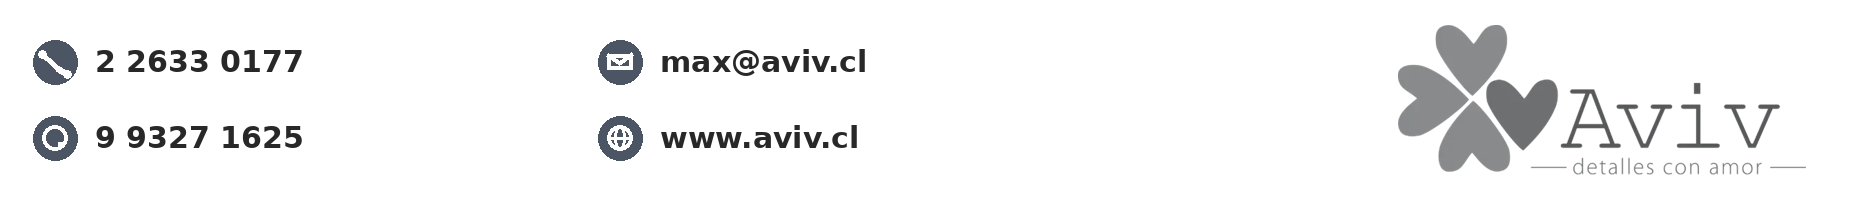
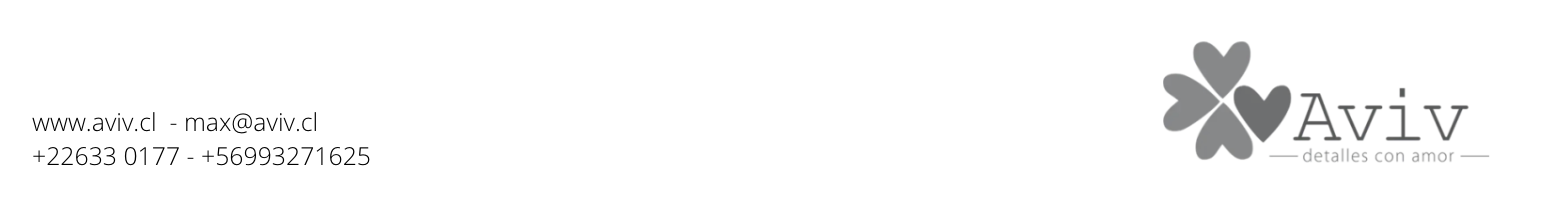
header

diff --git a/generar-catalogos-aviv.js b/generar-catalogos-aviv.js
@@ -1,12 +1,12 @@
 // ══════════════════════════════════════════════════════════════════════════════
-// AVIV — Generador de catálogos PDF → Dropbox
+// AVIV — Generador de catálogos PDF → GitHub Releases
 // A diferencia del script de Temponovo, ACÁ NO SE LISTAN CATÁLOGOS A MANO:
 // se generan automáticamente uno por cada categoría que exista en Odoo
 // (Oro / Anillo, Oro / Aro, Plata / Collar, etc.) — si en Odoo agregan o
 // renombran una categoría, en la próxima corrida aparece/desaparece solo.
 //
-// Uso: DROPBOX_TOKEN=xxx node generar-catalogos-aviv.js
-//      DROPBOX_TOKEN=xxx node generar-catalogos-aviv.js "Anillo"   (filtra por nombre)
+// Uso: GH_TOKEN_RELEASES=xxx node generar-catalogos-aviv.js
+//      GH_TOKEN_RELEASES=xxx node generar-catalogos-aviv.js "Anillo"   (filtra por nombre)
 // ══════════════════════════════════════════════════════════════════════════════
 
 process.on('uncaughtException', err => {
@@ -24,16 +24,11 @@ const xmlrpc      = require('xmlrpc');
 let   sharp;
 try { sharp = require('sharp'); } catch(e) { sharp = null; }
 
-const DROPBOX_REFRESH_TOKEN = process.env.DROPBOX_REFRESH_TOKEN;
-const DROPBOX_APP_KEY       = process.env.DROPBOX_APP_KEY;
-const DROPBOX_APP_SECRET    = process.env.DROPBOX_APP_SECRET;
-const DROPBOX_FOLDER        = '';
-let   _dropboxAccessToken   = null;
 const CACHE_PATH     = path.join(__dirname, 'imagenes_cache.json');
 
 const GH_TOKEN      = process.env.GH_TOKEN_RELEASES;
 const GH_REPO_OWNER = process.env.GH_REPO_OWNER || 'natischnitzler';   // ⚠ confirmar owner correcto para Aviv
-const GH_REPO_NAME  = process.env.GH_REPO_NAME  || 'aviv-catalogos';   // ⚠ confirmar/crear este repo
+const GH_REPO_NAME  = process.env.GH_REPO_NAME  || 'aviv-catalogos';   // repo único (código + releases) — debe ser PÚBLICO para que WhatsApp/la web puedan descargar los PDFs sin login
 const GH_RELEASE_TAG = 'catalogos-latest';
 
 const ODOO_URL      = process.env.ODOO_URL      || 'https://aviv.odoo.com';
@@ -46,12 +41,13 @@ if (!ODOO_USERNAME || !ODOO_PASSWORD) {
   process.exit(1);
 }
 
+if (!GH_TOKEN) {
+  console.error('❌ Falta GH_TOKEN_RELEASES. Sin esto no hay dónde subir los catálogos (solo se usa GitHub Releases, no Dropbox).');
+  process.exit(1);
+}
+
 const HEADER_PATH = path.join(__dirname, 'header_aviv.png');
 const HEADER_IMG  = fs.existsSync(HEADER_PATH) ? fs.readFileSync(HEADER_PATH) : null;
-
-if (!DROPBOX_REFRESH_TOKEN || !DROPBOX_APP_KEY || !DROPBOX_APP_SECRET) {
-  console.warn('⚠  Sin credenciales Dropbox — se saltará la subida a Dropbox');
-}
 
 // ══════════════════════════════════════════════════════════════════════════════
 // CATÁLOGOS — 100% DINÁMICO, NO SE LISTAN A MANO
@@ -250,7 +246,7 @@ async function generarPDF(nombreArchivo, productos, orden, caracteristicas, imgs
   const PAGE_W = 210 * MM;
   const PAGE_H = 297 * MM;
   const mg     = 4   * MM;
-  const headerH  = (210 * (200/1866)) * MM;
+  const headerH  = (210 * (202/1544)) * MM;   // ratio del banner header_aviv.png (1544x202)
   const footerH  = 10  * MM;
   const COLS     = 4;
   const ROWS     = 4;
@@ -583,65 +579,6 @@ function filtrar(){
 }
 
 // ══════════════════════════════════════════════════════════════════════════════
-// DROPBOX
-// ══════════════════════════════════════════════════════════════════════════════
-async function getDropboxToken() {
-  if (_dropboxAccessToken) return _dropboxAccessToken;
-  const res = await axios.post('https://api.dropbox.com/oauth2/token',
-    `grant_type=refresh_token&refresh_token=${DROPBOX_REFRESH_TOKEN}&client_id=${DROPBOX_APP_KEY}&client_secret=${DROPBOX_APP_SECRET}`,
-    { headers: { 'Content-Type': 'application/x-www-form-urlencoded' } }
-  );
-  _dropboxAccessToken = res.data.access_token;
-  console.log('✅ Dropbox token renovado');
-  return _dropboxAccessToken;
-}
-
-async function subirADropbox(buffer, nombreArchivo) {
-  // Agregar _ antes de la extensión
-  nombreArchivo = nombreArchivo.replace(/\.([^.]+)$/, '_.$1');
-  const token = await getDropboxToken();
-  const res = await axios.post(
-    'https://content.dropboxapi.com/2/files/upload', buffer,
-    {
-      headers: {
-        'Authorization': `Bearer ${token}`,
-        'Dropbox-API-Arg': JSON.stringify({
-          path: `${DROPBOX_FOLDER}/${nombreArchivo}`,
-          mode: 'overwrite', autorename: false, mute: true
-        }),
-        'Content-Type': 'application/octet-stream'
-      },
-      maxBodyLength: Infinity
-    }
-  );
-  return res.data;
-}
-
-async function obtenerLinkCompartido(nombreArchivo) {
-  const token = await getDropboxToken();
-  const path = `${DROPBOX_FOLDER}/${nombreArchivo}`;
-  try {
-    const res = await axios.post(
-      'https://api.dropboxapi.com/2/sharing/create_shared_link_with_settings',
-      { path, settings: { requested_visibility: 'public' } },
-      { headers: { 'Authorization': `Bearer ${token}`, 'Content-Type': 'application/json' } }
-    );
-    return res.data.url.replace('?dl=0', '?dl=1');
-  } catch (err) {
-    if (err.response?.data?.error?.['.tag'] === 'shared_link_already_exists') {
-      const res2 = await axios.post(
-        'https://api.dropboxapi.com/2/sharing/list_shared_links',
-        { path },
-        { headers: { 'Authorization': `Bearer ${token}`, 'Content-Type': 'application/json' } }
-      );
-      const link = res2.data.links?.[0]?.url;
-      return link ? link.replace('?dl=0', '?dl=1') : null;
-    }
-    throw err;
-  }
-}
-
-// ══════════════════════════════════════════════════════════════════════════════
 // COMPRESION PDF (solo para GitHub/WhatsApp)
 // ══════════════════════════════════════════════════════════════════════════════
 const { execSync } = require('child_process');
@@ -835,14 +772,6 @@ async function main() {
       const buffer = await generarPDF(cat.archivo, prods, cat.orden, caracteristicas, cache, cat.titulo);
       console.log(`  ✅ PDF: ${(buffer.length/1024).toFixed(0)} KB`);
 
-      // Dropbox — opcional, no bloquea si falla
-      try {
-        const result = await subirADropbox(buffer, cat.archivo);
-        console.log(`  ☁  Dropbox: ${result.path_display}`);
-      } catch(de) {
-        console.log(`  ⚠  Dropbox: ${de.response?.data?.error_summary || de.message}`);
-      }
-
       // GitHub Releases — comprimir si pesa mas de 15MB
       if (GH_TOKEN && releaseId) {
         const mb = buffer.length / 1024 / 1024;
@@ -877,8 +806,12 @@ async function main() {
       const fecha = new Date().toLocaleDateString('es-CL', {day:'2-digit',month:'2-digit',year:'numeric'});
       const hora  = new Date().toLocaleTimeString('es-CL', {hour:'2-digit',minute:'2-digit'});
       const html  = generarHTML(todos, fecha, hora);
-      await subirADropbox(Buffer.from(html, 'utf8'), 'Stock_Aviv.html');
-      console.log('  ✅ Stock_Aviv.html subido a Dropbox');
+      if (GH_TOKEN && releaseId) {
+        const url = await subirAGithub(Buffer.from(html, 'utf8'), 'Stock_Aviv.html', releaseId);
+        console.log(`  🐙 Stock_Aviv.html subido: ${url}`);
+      } else {
+        console.log('  ⏭  Sin GitHub Release disponible, se omite Stock_Aviv.html');
+      }
     } catch(err) {
       console.error('  ❌ Error generando HTML:', err.message);
     }
